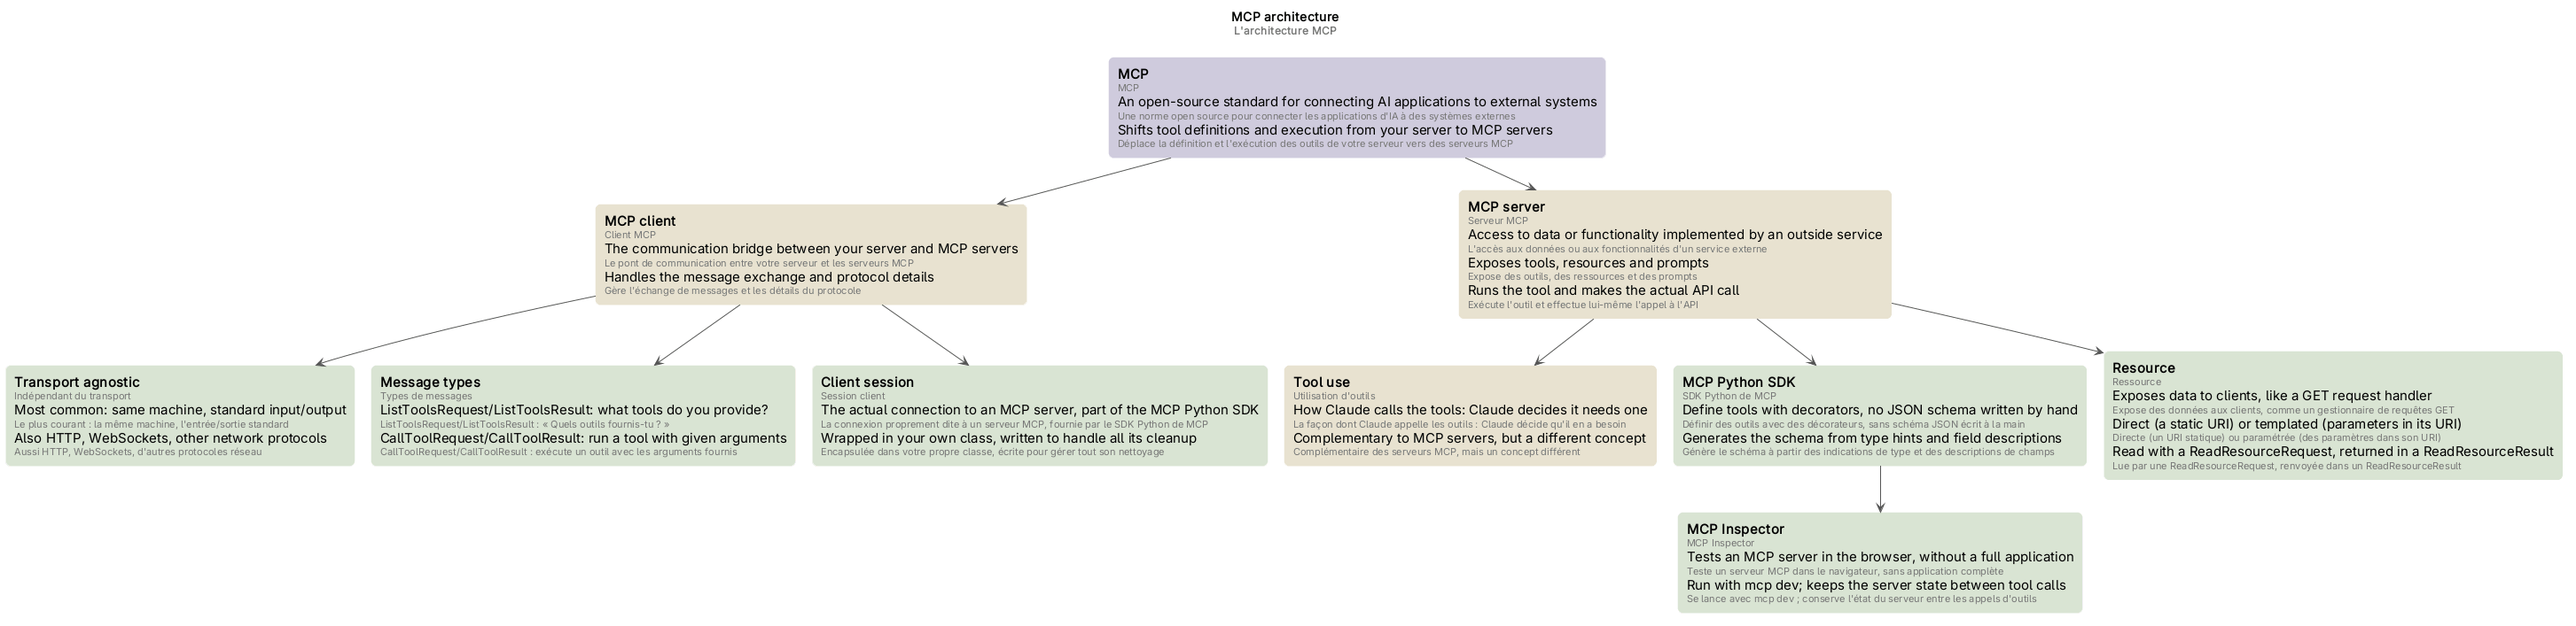
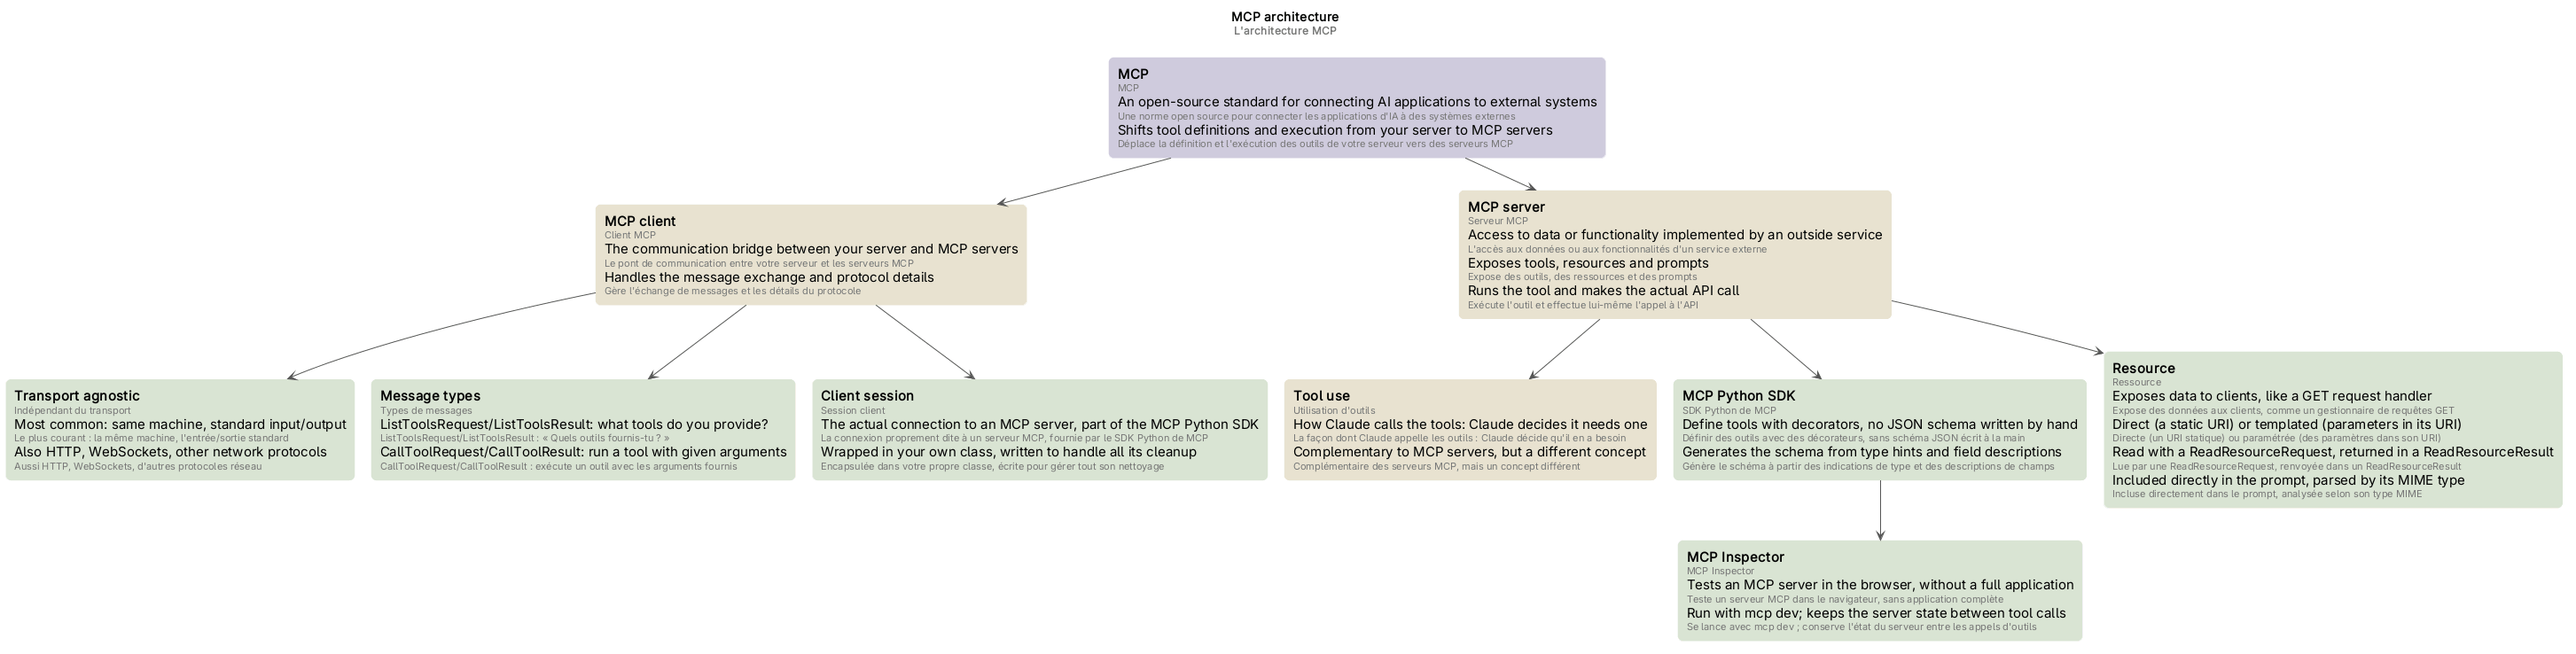
docs: add the MIME type entry, resources read into the prompt

diff --git a/08-introduction-to-model-context-protocol/index.md b/08-introduction-to-model-context-protocol/index.md
@@ -40,7 +40,7 @@ One of the three basic components of an [MCP server](#mcp-server-serveur-mcp): i
 
 ### Resource *(Ressource)*
 
-One of the three basic components of an [MCP server](#mcp-server-serveur-mcp): resources allow a server to share data with clients, for direct data access (resources for exposing data). Like GET request handlers in a typical HTTP server, they expose data to clients: perfect when you need to fetch information rather than perform actions, a clean way to expose read-only data from your MCP server without the complexity of tool calls. They follow a request-response pattern: when your client needs data, it sends a [ReadResourceRequest](#readresourcerequestreadresourceresult-readresourcerequestreadresourceresult) with a URI that identifies the resource; the MCP server processes the URI, runs the appropriate function and returns the data in a ReadResourceResult. Your code requests a resource from the [MCP client](#mcp-client-client-mcp), which forwards the request to the MCP server. You usually define one resource for each distinct read operation. Two types: [direct resources](#direct-resource-ressource-directe) (a static URI) and [templated resources](#templated-resource-ressource-paramétrée) (parameters in their URI). With the [MCP Python SDK](#mcp-python-sdk-sdk-python-de-mcp), a resource is a Python function under a [decorator](#decorator-décorateur), `@mcp.resource(…)`, that gives its URI and its mime_type. A resource can return any type of data (strings, JSON, binary data); the mime_type parameter gives clients a hint about the kind of data returned: "application/json" for structured data, "text/plain" for plain text, "application/pdf" for binary files. The SDK automatically serializes your return values: you return the data structure, not a JSON string, and the client deserializes it. The [MCP Inspector](#mcp-inspector-mcp-inspector) lists them in two sections, Resources (direct/static) and Resource Templates (templated); click one to test it, and the inspector shows the exact response structure your client will receive, with the MIME type and the serialized data. The course's example: a document mention feature (@document_name), one resource listing all available documents for an autocomplete, another fetching a document's contents, which your system injects into the prompt sent to Claude, so Claude needs no tool to fetch it.
+One of the three basic components of an [MCP server](#mcp-server-serveur-mcp): resources allow a server to share data with clients, for direct data access (resources for exposing data). Like GET request handlers in a typical HTTP server, they expose data to clients: perfect when you need to fetch information rather than perform actions, a clean way to expose read-only data from your MCP server without the complexity of tool calls. They follow a request-response pattern: when your client needs data, it sends a [ReadResourceRequest](#readresourcerequestreadresourceresult-readresourcerequestreadresourceresult) with a URI that identifies the resource; the MCP server processes the URI, runs the appropriate function and returns the data in a ReadResourceResult. Your code requests a resource from the [MCP client](#mcp-client-client-mcp), which forwards the request to the MCP server. You usually define one resource for each distinct read operation. Two types: [direct resources](#direct-resource-ressource-directe) (a static URI) and [templated resources](#templated-resource-ressource-paramétrée) (parameters in their URI). With the [MCP Python SDK](#mcp-python-sdk-sdk-python-de-mcp), a resource is a Python function under a [decorator](#decorator-décorateur), `@mcp.resource(…)`, that gives its URI and its mime_type. A resource can return any type of data (strings, JSON, binary data); the mime_type parameter gives clients a hint about the kind of data returned (its [MIME type](#mime-type-type-mime)): "application/json" for structured data, "text/plain" for plain text, "application/pdf" for binary files. The SDK automatically serializes your return values: you return the data structure, not a JSON string, and the client deserializes it. The [MCP Inspector](#mcp-inspector-mcp-inspector) lists them in two sections, Resources (direct/static) and Resource Templates (templated); click one to test it, and the inspector shows the exact response structure your client will receive, with the MIME type and the serialized data. The course's example: a document mention feature (@document_name), one resource listing all available documents for an autocomplete, another fetching a document's contents, which your system injects into the prompt sent to Claude, so Claude needs no tool to fetch it. Resources expose information that can be directly included in prompts, rather than requiring tool calls to access data: a more efficient way to provide context to AI models. The resource content becomes part of the initial context, allowing for immediate responses about the data, a much smoother user experience than the AI model making separate tool calls. To access them, the MCP client implements a `read_resource` function: it requests the resource from the MCP server and processes the response based on its MIME type.
 
 → [schéma de l'architecture MCP](mindmap/mcp-architecture.png)
 
@@ -118,7 +118,7 @@ The actual connection to an [MCP server](#mcp-server-serveur-mcp), part of the [
 
 ### ReadResourceRequest/ReadResourceResult *(ReadResourceRequest/ReadResourceResult)*
 
-The message types of a [resource](#resource-ressource) read, in its request-response pattern. When the [MCP client](#mcp-client-client-mcp) needs data, it sends a ReadResourceRequest with a URI to identify which resource it wants (the address of the resource, defined with the resource); the [MCP server](#mcp-server-serveur-mcp) processes the request, runs the function behind that URI and returns the data in a ReadResourceResult. In the course's example, the list of document names for an autocomplete: a ReadResourceRequest for `docs://documents`, a ReadResourceResult with the list of doc names.
+The message types of a [resource](#resource-ressource) read, in its request-response pattern. When the [MCP client](#mcp-client-client-mcp) needs data, it sends a ReadResourceRequest with a URI to identify which resource it wants (the address of the resource, defined with the resource); the [MCP server](#mcp-server-serveur-mcp) processes the request, runs the function behind that URI and returns the data in a ReadResourceResult. In the course's example, the list of document names for an autocomplete: a ReadResourceRequest for `docs://documents`, a ReadResourceResult with the list of doc names. The result holds a contents list; the client accesses its first element, since it typically only needs one resource at a time. The response includes the actual content (text or data), a [MIME type](#mime-type-type-mime) that tells the client how to parse the content, and other metadata about the resource.
 
 → [schéma de l'architecture MCP](mindmap/mcp-architecture.png)
 
@@ -131,5 +131,11 @@ A [resource](#resource-ressource) whose URI is static and never changes, such as
 ### Templated resource *(Ressource paramétrée)*
 
 A [resource](#resource-ressource) whose URI includes one or more parameters, such as `docs://documents/{doc_id}`: the Python SDK automatically parses them and passes them as keyword arguments to your function, each with the name it has in the URI (`doc_id`). For requests that need more selection or customization of what is asked for. The [MCP Inspector](#mcp-inspector-mcp-inspector) lists them under Resource Templates, where you provide values for the parameters. One of the two types of resources, with [direct resources](#direct-resource-ressource-directe).
+
+→ [schéma de l'architecture MCP](mindmap/mcp-architecture.png)
+
+### MIME type *(Type MIME)*
+
+A hint about what kind of data a [resource](#resource-ressource) returns. The server gives it with the mime_type parameter: "application/json" for structured data, "text/plain" for plain text, "application/pdf" for binary files. The [ReadResourceResult](#readresourcerequestreadresourceresult-readresourcerequestreadresourceresult) carries it, and the client checks it to determine how to process the content: if it's application/json, parse the text as JSON and return the parsed object; otherwise, return the raw text content. The [MCP Inspector](#mcp-inspector-mcp-inspector) shows it in each response, with the serialized data.
 
 → [schéma de l'architecture MCP](mindmap/mcp-architecture.png)

diff --git a/08-introduction-to-model-context-protocol/mindmap.md b/08-introduction-to-model-context-protocol/mindmap.md
@@ -16,4 +16,4 @@ Les schémas du [glossaire](index.md), un par partie du cours. Chacun est un fic
 
 ![Schéma de l'architecture MCP](mindmap/mcp-architecture.png)
 
-*MCP et ses deux côtés : le client MCP (le pont de communication avec les serveurs MCP, indépendant du transport, ses types de messages ListTools et CallTool, sa session client) et le serveur MCP (l'accès à un service externe, ses outils, ressources et prompts, ses ressources directes ou paramétrées lues par ReadResourceRequest, le SDK Python de MCP pour définir ses outils, et son MCP Inspector pour les tester), et l'utilisation d'outils à côté, complémentaire mais différente.* Source : [mcp-architecture.puml](mindmap/mcp-architecture.puml)
+*MCP et ses deux côtés : le client MCP (le pont de communication avec les serveurs MCP, indépendant du transport, ses types de messages ListTools et CallTool, sa session client) et le serveur MCP (l'accès à un service externe, ses outils, ressources et prompts, ses ressources directes ou paramétrées lues par ReadResourceRequest et incluses directement dans le prompt selon leur type MIME, le SDK Python de MCP pour définir ses outils, et son MCP Inspector pour les tester), et l'utilisation d'outils à côté, complémentaire mais différente.* Source : [mcp-architecture.puml](mindmap/mcp-architecture.puml)
